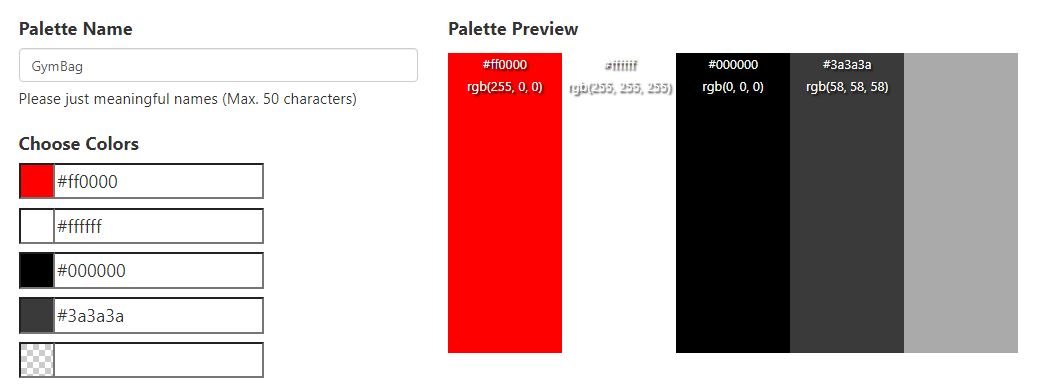
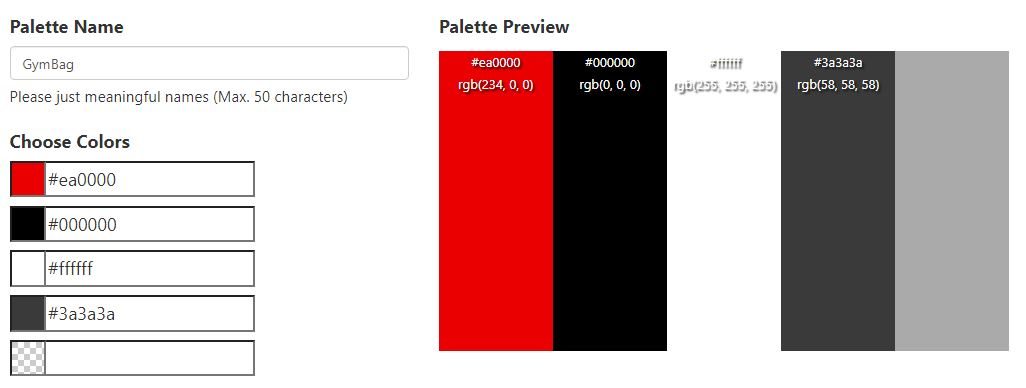
Update color palette in readme and add rel attribute to social media in footer

diff --git a/templates/base.html b/templates/base.html
@@ -175,13 +175,13 @@
         <footer>
             <div>
                 <ul class="social-networks">
-                    <li><a href="https://www.facebook.com/profile.php?id=100086838527143" aria-label="link to facebook" target="_blank"><i
+                    <li><a href="https://www.facebook.com/profile.php?id=100086838527143" aria-label="link to facebook" target="_blank" rel="noopener"><i
                                 class="fab fa-facebook"></i></a></li>
-                    <li><a href="https://www.twitter.com" aria-label="link to twitter" target="_blank"><i
+                    <li><a href="https://www.twitter.com" aria-label="link to twitter" target="_blank" rel="noopener"><i
                                 class="fab fa-twitter-square"></i></a></li>
-                    <li><a href="https://www.youtube.com" aria-label="link to youtube" target="_blank"><i
+                    <li><a href="https://www.youtube.com" aria-label="link to youtube" target="_blank" rel="noopener"><i
                                 class="fab fa-youtube"></i></a></li>
-                    <li><a href="https://www.instagram.com" aria-label="link to instagram" target="_blank"><i
+                    <li><a href="https://www.instagram.com" aria-label="link to instagram" target="_blank" rel="noopener"><i
                                 class="fab fa-instagram"></i></a></li>
                 </ul>
             </div>
